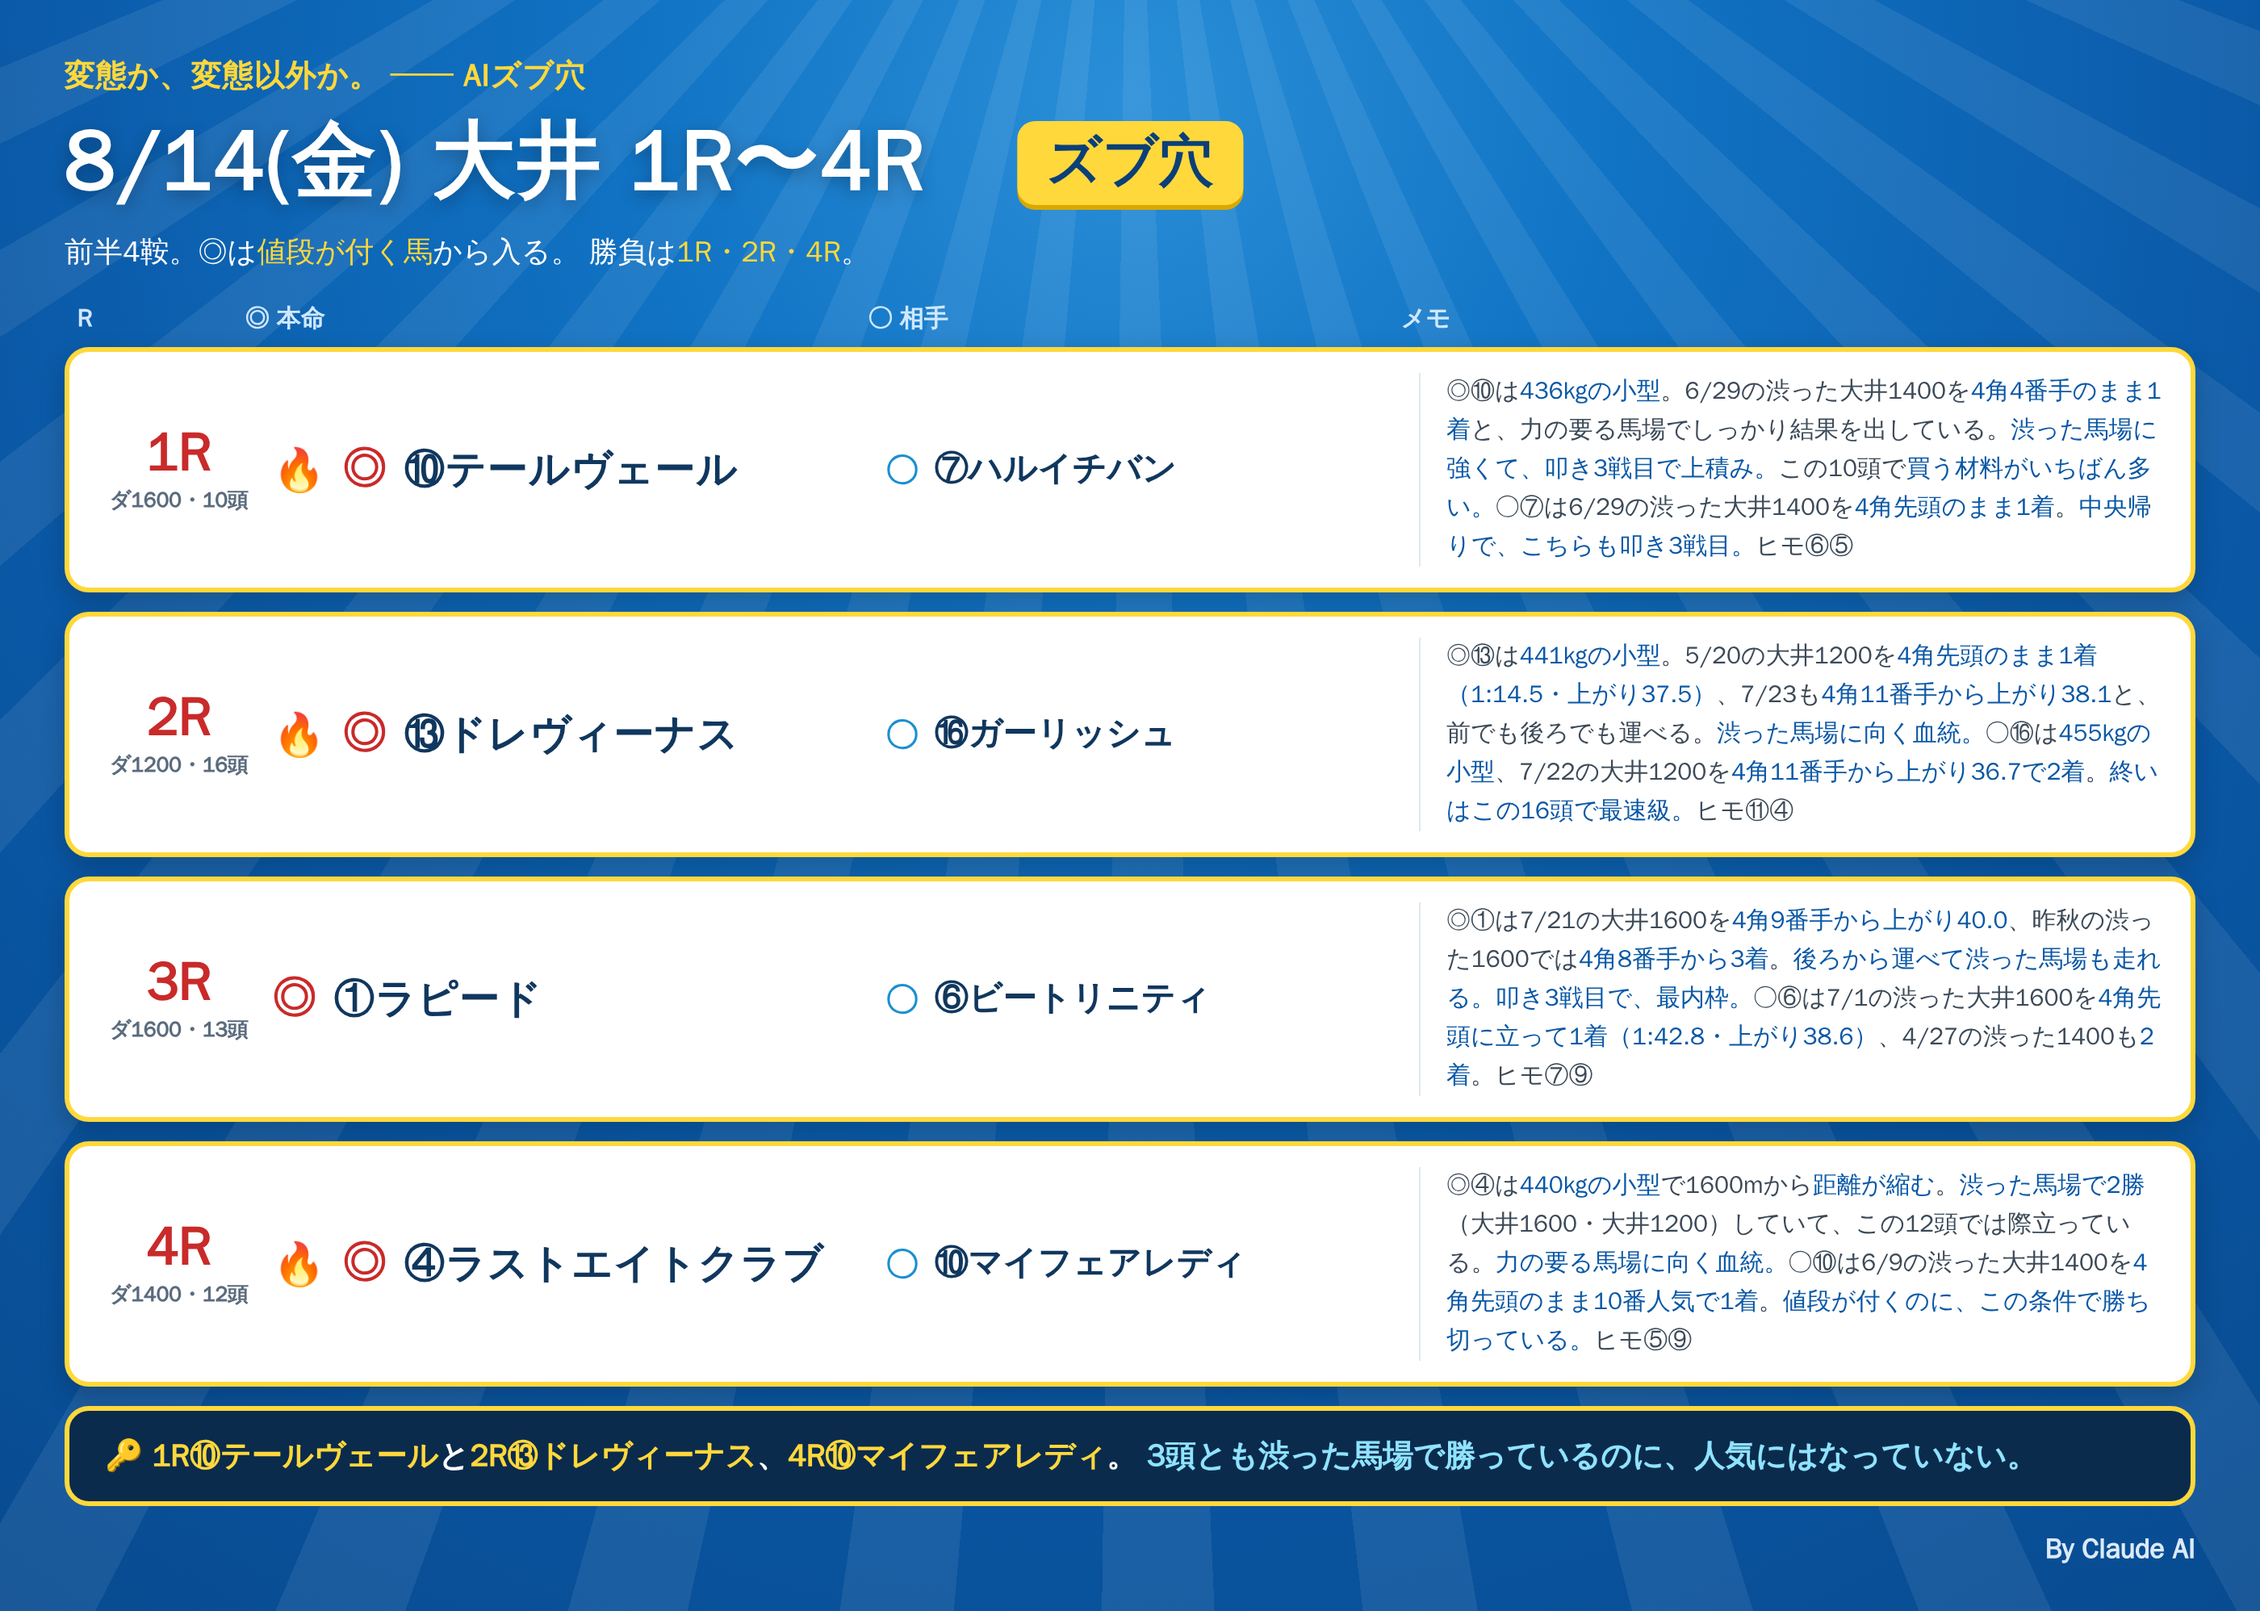
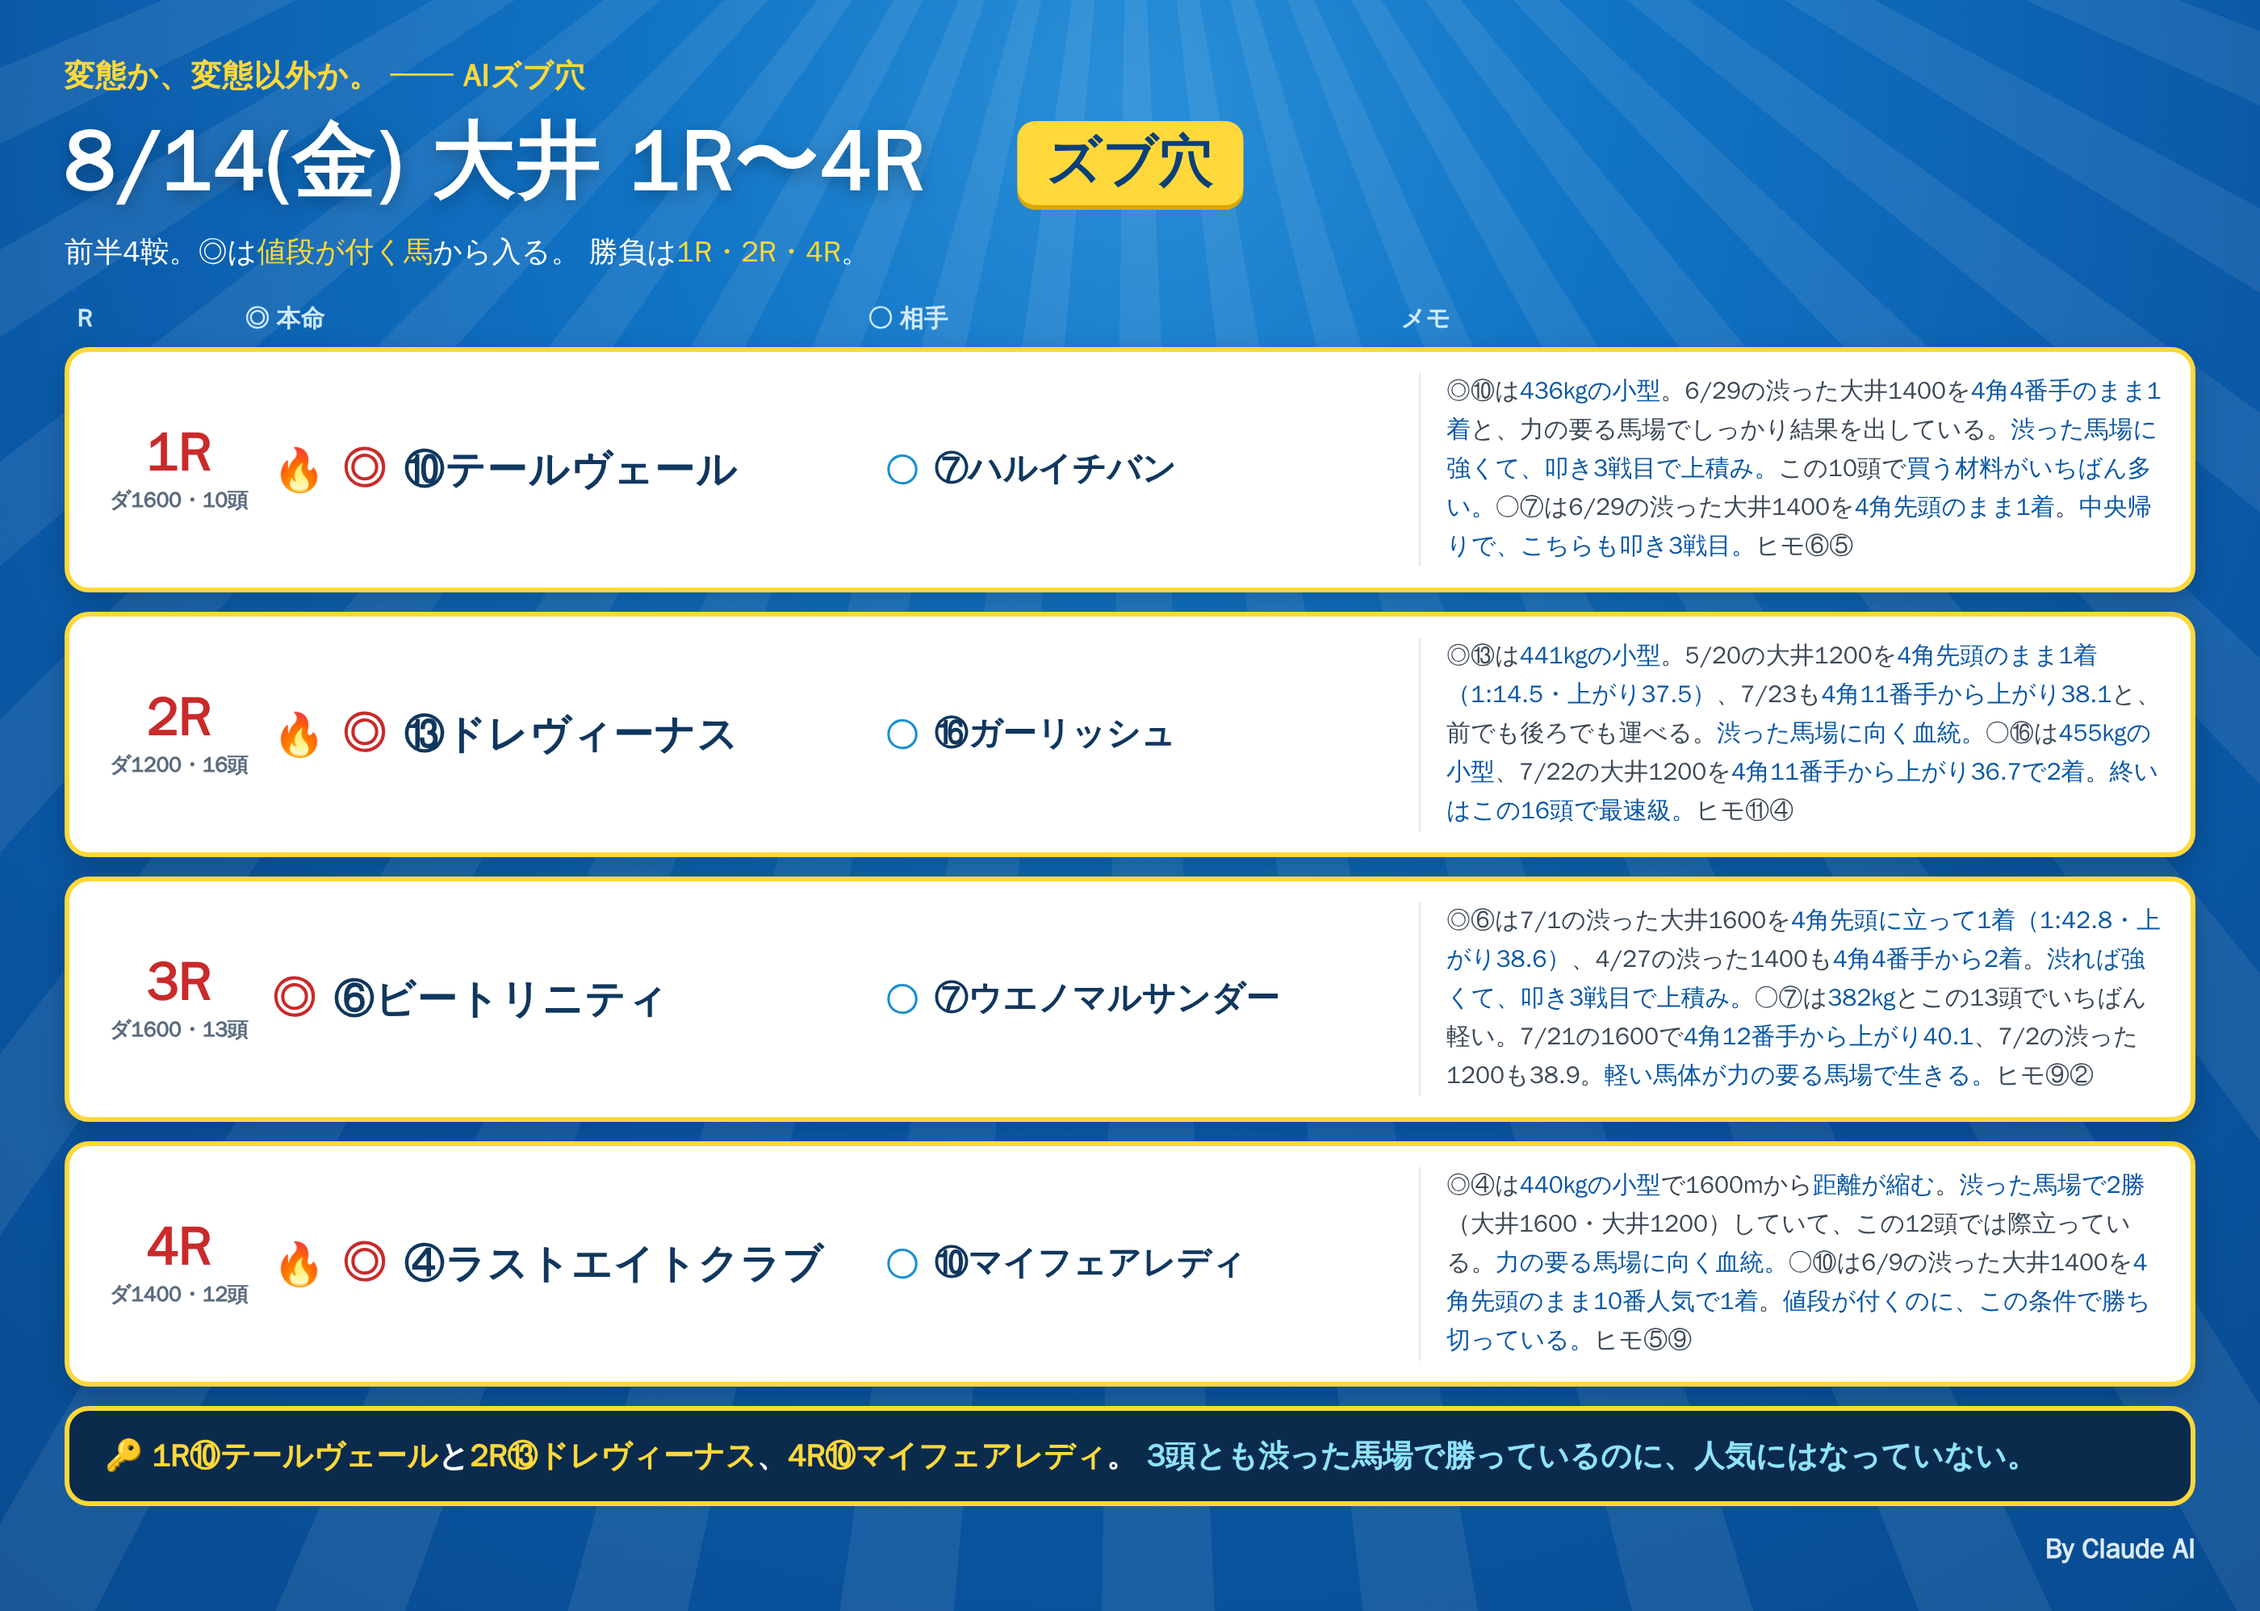
8/14大井 3R 印変更（◎⑥ビートリニティ ○⑦ウエノマルサンダー）

Changed region(s): [[0.6214, 0.5591, 0.9632, 0.6834], [0.435, 0.5902, 0.5593, 0.6212], [0.1554, 0.5902, 0.2796, 0.6212]]

diff --git a/notes/live/2026-08-14/oi_1_4.html b/notes/live/2026-08-14/oi_1_4.html
@@ -66,9 +66,9 @@
 
   <div class="row">
     <div class="rN"><div class="n">3R</div><div class="d">ダ1600・13頭</div></div>
-    <div class="hm"><span class="mk">◎</span><span class="nm">①ラピード</span></div>
-    <div class="at"><span class="mk2">○</span><span class="nm2">⑥ビートリニティ</span></div>
-    <div class="memo">◎①は7/21の大井1600を<b>4角9番手から上がり40.0</b>、昨秋の渋った1600では<b>4角8番手から3着</b>。<b>後ろから運べて渋った馬場も走れる。叩き3戦目で、最内枠。</b>○⑥は7/1の渋った大井1600を<b>4角先頭に立って1着（1:42.8・上がり38.6）</b>、4/27の渋った1400も<b>2着</b>。ヒモ⑦⑨</div>
+    <div class="hm"><span class="mk">◎</span><span class="nm">⑥ビートリニティ</span></div>
+    <div class="at"><span class="mk2">○</span><span class="nm2">⑦ウエノマルサンダー</span></div>
+    <div class="memo">◎⑥は7/1の渋った大井1600を<b>4角先頭に立って1着（1:42.8・上がり38.6）</b>、4/27の渋った1400も<b>4角4番手から2着</b>。<b>渋れば強くて、叩き3戦目で上積み。</b>○⑦は<b>382kg</b>とこの13頭でいちばん軽い。7/21の1600で<b>4角12番手から上がり40.1</b>、7/2の渋った1200も38.9。<b>軽い馬体が力の要る馬場で生きる。</b>ヒモ⑨②</div>
   </div>
 
   <div class="row">
